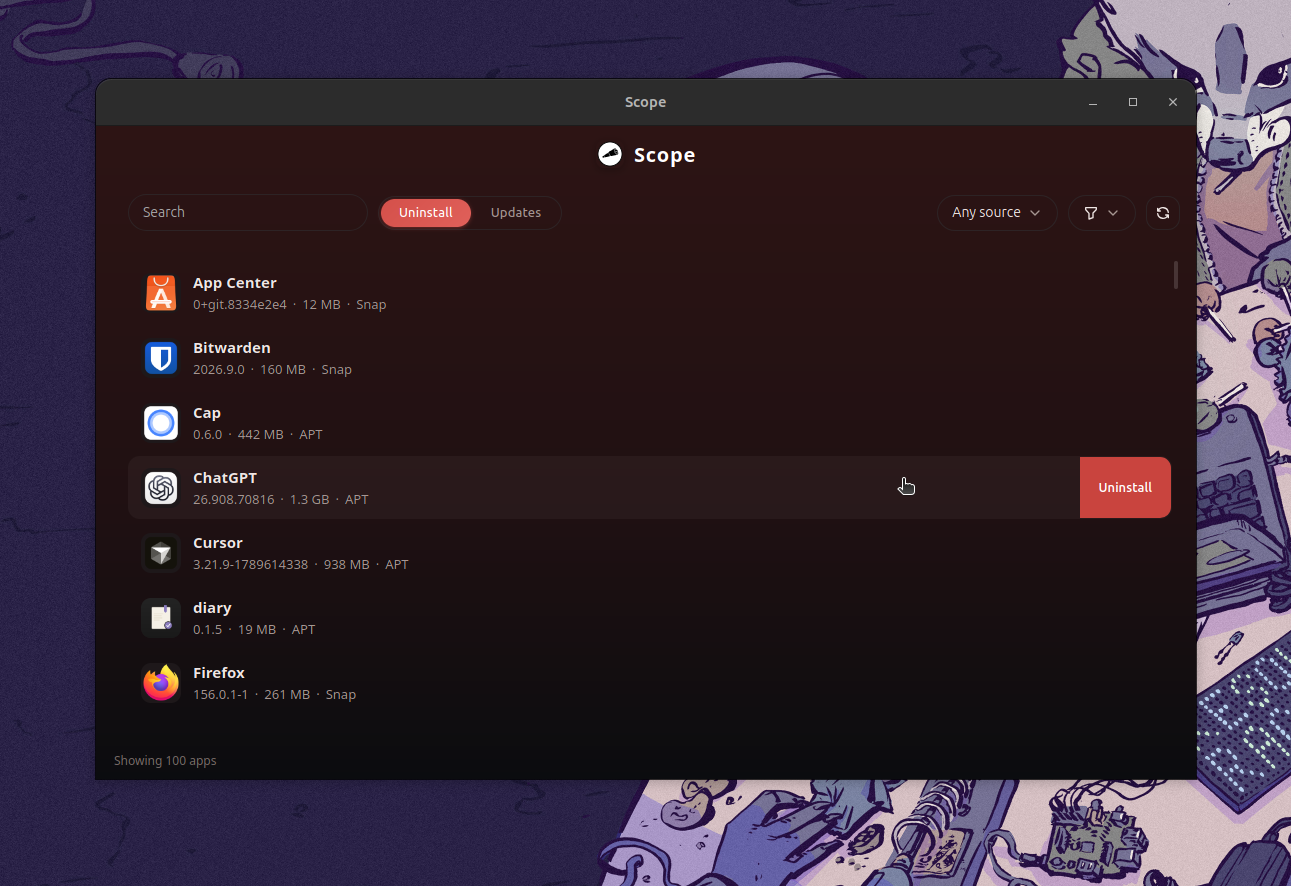
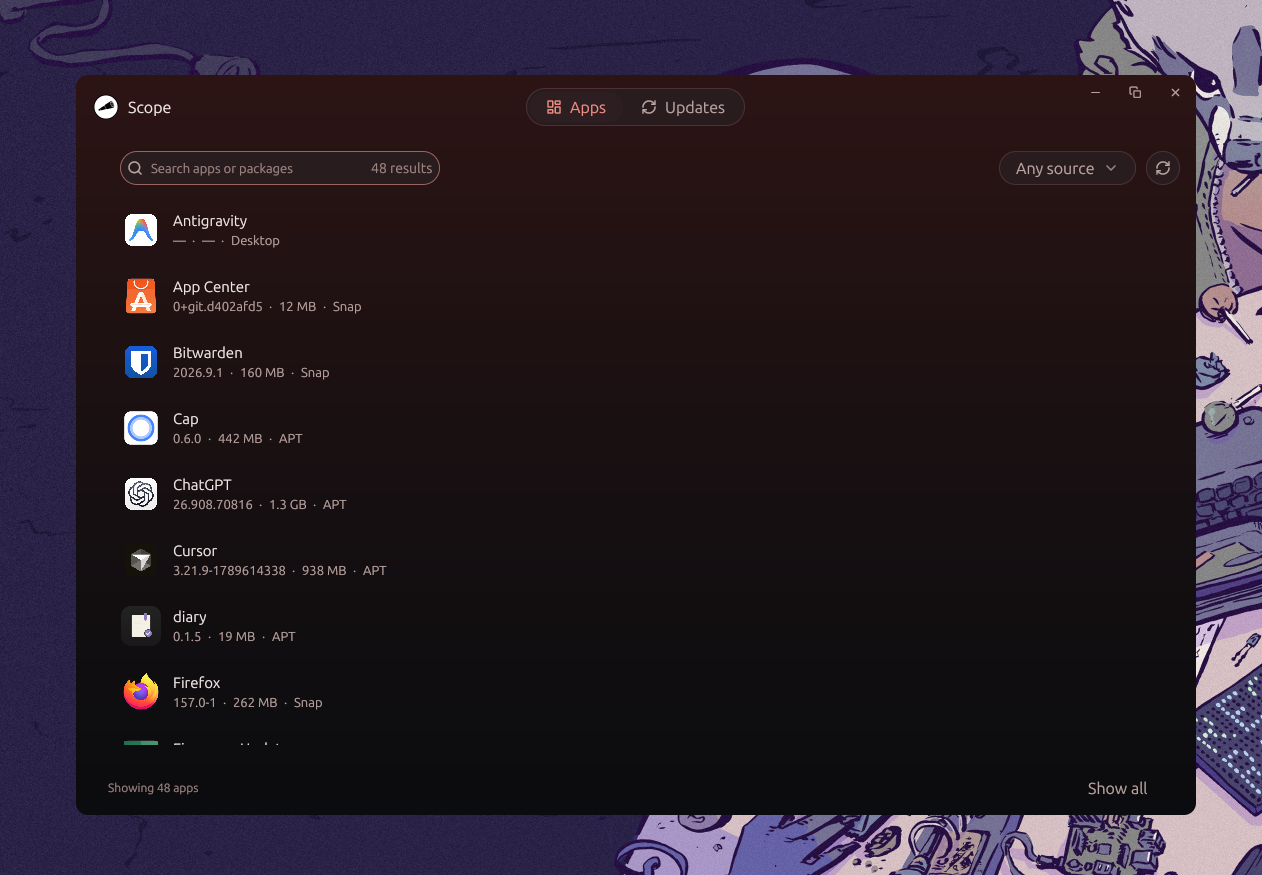
docs: refresh README and app screenshot

diff --git a/README.md b/README.md
@@ -6,10 +6,10 @@
 
 <p align="center"><strong>See, update, and uninstall every app on your Linux system in one place.</strong></p>
 
-Linux spreads software across APT, Snap, Flatpak, and AppImage. Scope scans all four into a single list, adds desktop names and icons where a GUI app exists, and lets you update or uninstall without typing a package-manager command. Every destructive action shows a preview first. Privileged actions go through Polkit, so Scope never handles your password.
+Scope brings APT, Snap, Flatpak, AppImages, and user-local desktop apps into one searchable list. Update or uninstall supported apps after reviewing a preview of the operation. Privileged actions use the standard Polkit dialog, so Scope never handles your password.
 
 <p align="center">
-  <img src="docs/image.png" alt="Scope showing installed apps from APT, Snap, Flatpak, and AppImage in one list, with an inline detail panel and hover actions" width="720" />
+  <img src="docs/image.png" alt="Scope v0.3.3 showing the Apps and Updates toggle, installed apps, search, source filter, and Show all control in its dark red interface" width="960" />
 </p>
 
 Built with Zed's GPUI (Rust binary in `src/`, no webview). Architecture and module rules live in [AGENTS.md](AGENTS.md).
@@ -18,24 +18,29 @@ Built with Zed's GPUI (Rust binary in `src/`, no webview). Architecture and modu
 
 Current release: [v0.3.3](https://github.com/khurrambhutto/scope/releases/tag/v0.3.3).
 
-Download the `.deb` from [GitHub Releases](https://github.com/khurrambhutto/scope/releases). The app checks the Releases API on startup. Packaged builds offer one-click updates only when the release contains the exact architecture-specific artifact plus a minisign-signed `SHA256SUMS` manifest. Other installs open the Releases page.
+Download [scope_0.3.3_amd64.deb](https://github.com/khurrambhutto/scope/releases/download/v0.3.3/scope_0.3.3_amd64.deb) for Ubuntu on x86-64, then run this command from the download directory:
 
 ```bash
-# Ubuntu / Debian
 sudo apt install ./scope_0.3.3_amd64.deb
 ```
 
-Build from source (Rust stable; Linux needs GPUI system deps, notably `libxkbcommon-x11-dev`):
+Scope checks GitHub Releases on startup. Official `.deb` builds from v0.3.3 can install updates after verifying the signed checksum manifest. Install v0.3.3 manually when upgrading from an earlier version without an embedded verification key. Other install types open the Releases page when a compatible verified package is unavailable.
+
+To build from source, install Rust stable and the Linux dependencies, then clone the repository:
 
 ```bash
 sudo apt install build-essential pkg-config libfontconfig1-dev libx11-dev libx11-xcb-dev \
   libxcb1-dev libxkbcommon-dev libxkbcommon-x11-dev libwayland-dev wayland-protocols
+git clone https://github.com/khurrambhutto/scope.git
+cd scope
 cargo run
 ```
 
 ## How it works
 
-The main window defaults to recognizable GUI apps and command-line tools, with their source, version, size, and update state. AppImages and user-local desktop apps appear with uninstall disabled. Use **Show all** in the footer to include every package row Scope scanned, including libraries and system components; protected packages remain visible there with uninstall disabled. Search or filter by source, then select a row for full details.
+Use the centered **Apps / Updates** toggle to switch between installed apps and available updates. Search by app or package name, filter by source, or refresh to rescan. Select a row for details and supported actions.
+
+The default list shows recognizable GUI apps and command-line tools. AppImages and user-local desktop apps appear for discovery, with update and uninstall disabled. **Show all** in the footer reveals every row returned by the scanners, including libraries and system components. APT scans manual installs only, and Snap and Flatpak runtimes remain excluded. Protected packages cannot be uninstalled, even with Show all enabled.
 
 Update and uninstall follow the same flow. Scope builds a plan showing exactly what will run and waits for your confirmation. The backend then revalidates the package against the live system and executes. Commands that need root trigger the standard system password dialog. System-critical packages are deny-listed in the backend and cannot be removed through Scope.
 
@@ -47,8 +52,9 @@ Works today:
 - Desktop-entry enrichment and freedesktop icon theme resolution
 - Uninstall with preview, Polkit auth, and a protected-package deny-list
 - Update with preview for APT, Snap, and Flatpak
-- Self-updater banner (checks GitHub Releases, one-click install for self-updatable installs)
-- Release pipeline producing `.deb` (Ubuntu first)
+- Rounded window with a centered Apps / Updates toggle and consistent dark red controls
+- Self-updater with signed checksum verification for official `.deb` builds
+- `.deb` releases with a signed SHA-256 manifest, targeting Ubuntu first
 
 Not yet:
 
